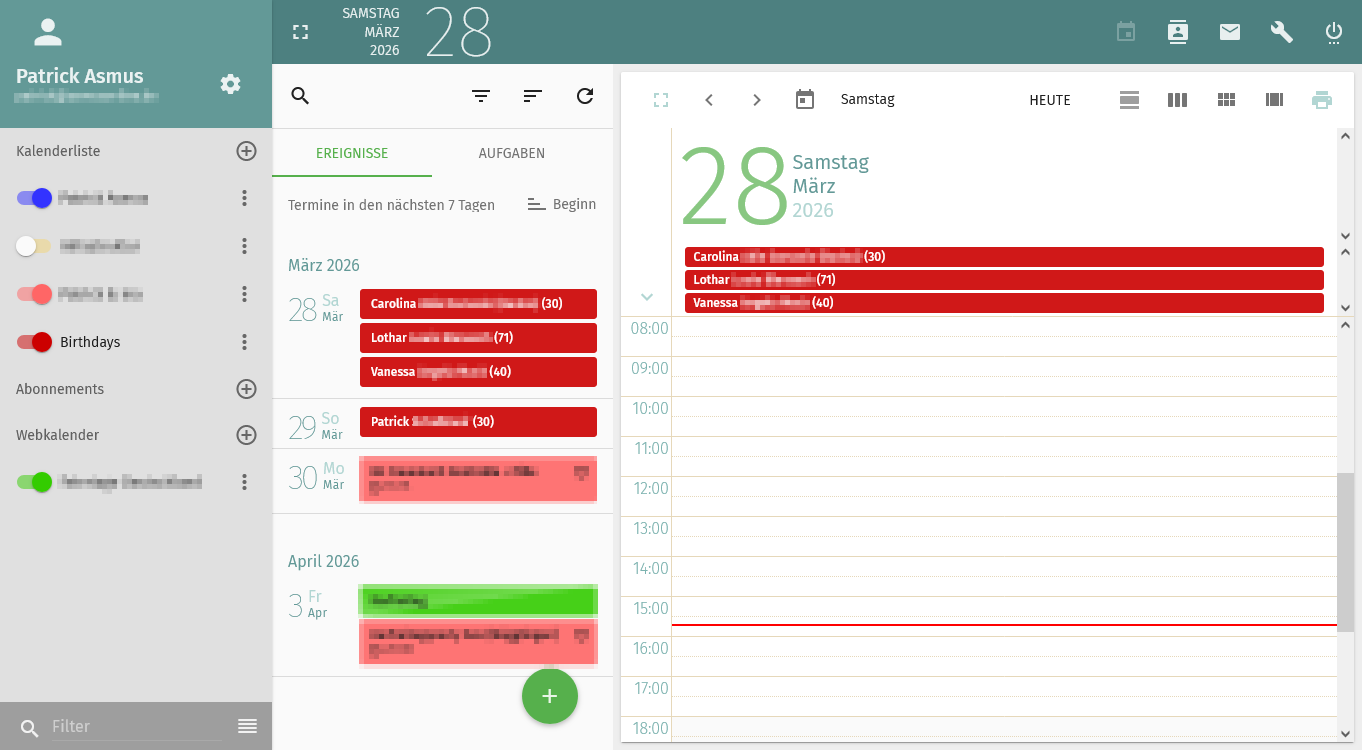
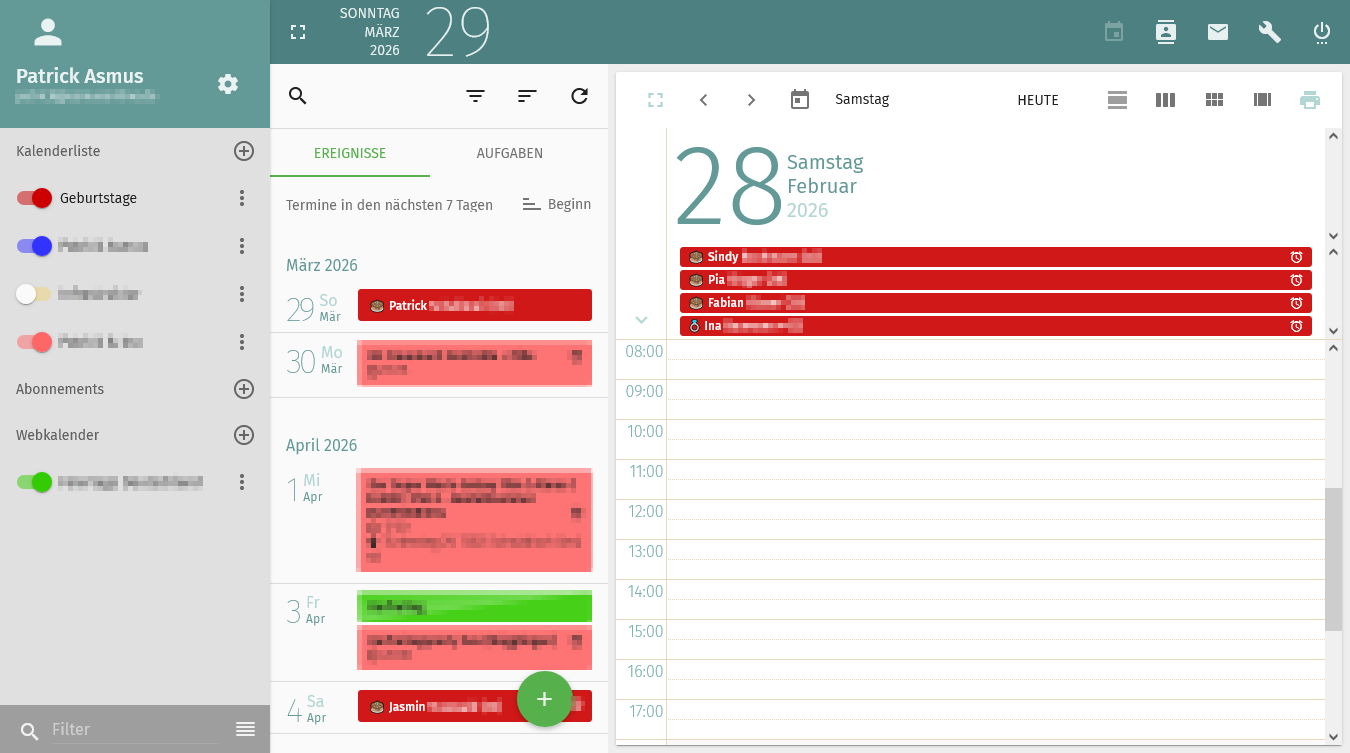
docs: Hinweis zu fehlender Jahrestag-Unterstützung in SOGo-Weboberfläche + Kalenderansicht aktualisiert

diff --git a/docs/funktionsweise.md b/docs/funktionsweise.md
@@ -15,6 +15,8 @@ Der Mailcow Birthday Daemon synchronisiert automatisch Geburtstagskalender für 
 - Zusätzlich zu Geburtstagen werden auch Jahrestage (`ANNIVERSARY`-Feld nach vCard 4.0 / RFC 6350) ausgelesen. Dieses Feld wird von allen gängigen Clients unterstützt (Android, iOS, Thunderbird).
 - Geburtstags-Events erhalten das Präfix 🎂, Jahrestags-Events das Präfix 💍 – so sind beide Typen im Kalender sofort unterscheidbar.
 - Die daraus resultierenden Kalendereinträge werden im Voraus berechnet.
+
+> **Hinweis zu Jahrestagen:** Die SOGo-Weboberfläche bietet kein Feld zum Anzeigen oder Bearbeiten von Jahrestagen. Das `ANNIVERSARY`-Feld muss über einen externen Client (z. B. Thunderbird, Android- oder iOS-Kontakte-App) gepflegt und per CardDAV synchronisiert werden. Das SOGo-CardDAV-Backend speichert und liefert das Feld korrekt – es fehlt lediglich die Unterstützung in der Web-UI.
     - Aktuell fest eingestellt: 1 Jahr in der Vergangenheit, 10 Jahre in der Zukunft.
     - Selbstverständlich pro Mailbox isoliert – ein Benutzer sieht nur die Geburtstage seiner eigenen Kontakte.
 
